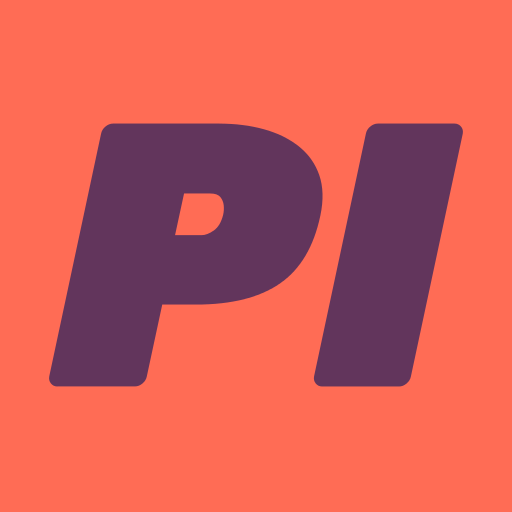
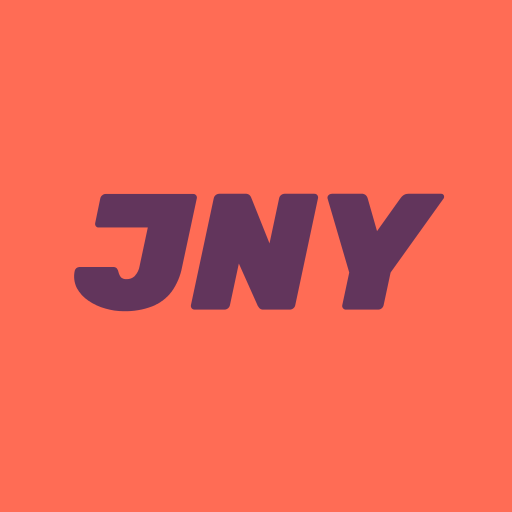
refactor: Rebrand as "Journey".

Changed region(s): [[0.0938, 0.2188, 0.9062, 0.7812], [0.375, 0.5, 0.5938, 0.625]]

diff --git a/push-it/public/index.html b/push-it/public/index.html
@@ -17,7 +17,7 @@
       work correctly both with client-side routing and a non-root public URL.
       Learn how to configure a non-root public URL by running `npm run build`.
     -->
-    <title>Push It</title>
+    <title>Journey</title>
 
     <!-- Generated from https://realfavicongenerator.net/favicon_result?file_id=p1eoavkpc5k5f1oou1iu1rou1nfm6 -->
     <link
